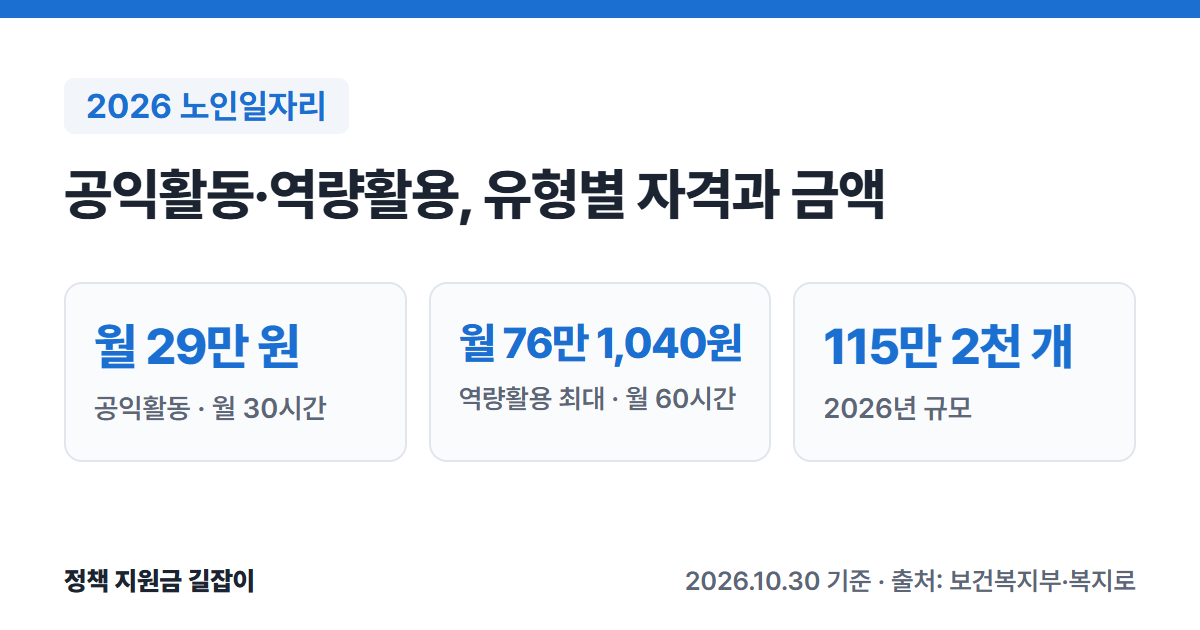
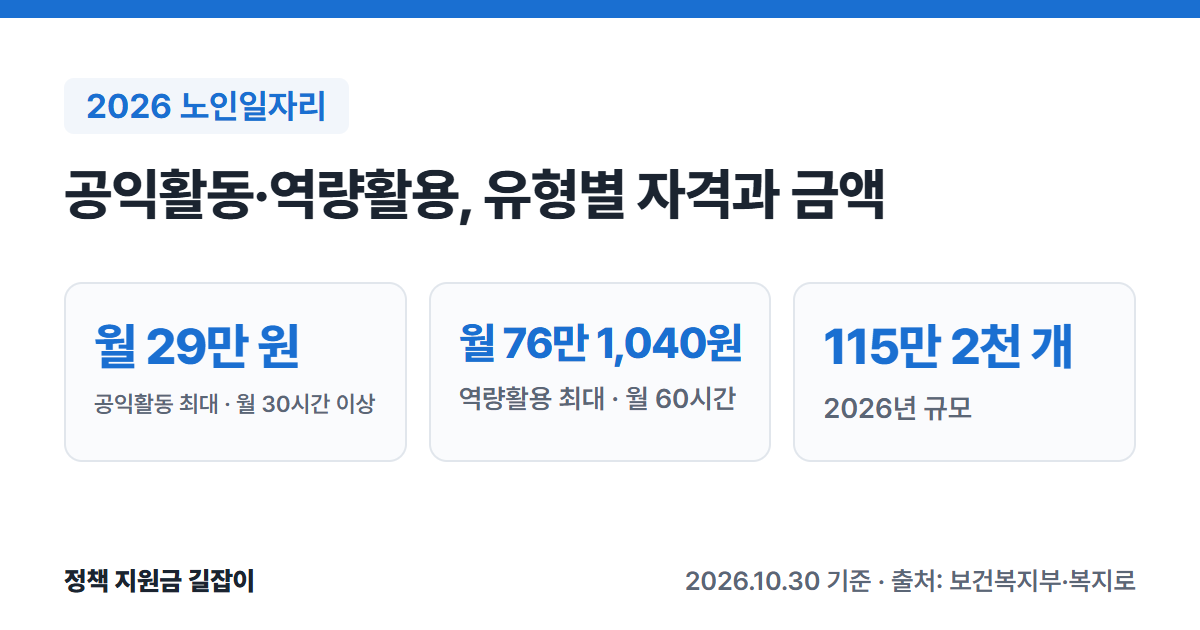
노인일자리 글·카드 공익활동 표현 보완(월 30시간 이상, 최대 29만 원), 쓰레드 원고 (독립 검토 반영)

Changed region(s): [[0.0617, 0.6032, 0.3083, 0.6635]]

diff --git a/_tools/card.html b/_tools/card.html
@@ -68,7 +68,7 @@ const cards = {
   "senior-jobs-2026": {
     label: "2026 노인일자리",
     title: "공익활동·역량활용, 유형별 자격과 금액",
-    stats: [["월 29만 원", "공익활동 · 월 30시간"], ["월 76만 1,040원", "역량활용 최대 · 월 60시간"], ["115만 2천 개", "2026년 규모"]],
+    stats: [["월 29만 원", "공익활동 최대 · 월 30시간 이상"], ["월 76만 1,040원", "역량활용 최대 · 월 60시간"], ["115만 2천 개", "2026년 규모"]],
     foot: "2026.10.30 기준 · 출처: 보건복지부·복지로"
   },
   "high-risk-pregnancy-medical-support-2026": {

diff --git a/_posts/2026-10-30-senior-jobs-2026.md b/_posts/2026-10-30-senior-jobs-2026.md
@@ -10,10 +10,10 @@ image: /assets/images/cards/senior-jobs-2026.png
 2026년에는 **115만 2천 개**를 제공하고, 공익활동은 **월 29만 원**, 역량활용은 **월 최대 76만 1,040원**을 받아요.
 보건복지부 「2026년 노인 일자리 및 사회활동 지원사업 운영안내」와 보도자료를 바탕으로 유형별 자격, 금액, 신청 방법을 정리했어요.
 
-![2026 노인일자리 요약: 공익활동 월 29만 원(월 30시간), 역량활용 월 최대 76만 1,040원(월 60시간, 주휴수당 포함), 2026년 115만 2천 개](/assets/images/cards/senior-jobs-2026.png){: .summary-card}
+![2026 노인일자리 요약: 공익활동 월 최대 29만 원(월 30시간 이상), 역량활용 월 최대 76만 1,040원(월 60시간, 주휴수당 포함), 2026년 115만 2천 개](/assets/images/cards/senior-jobs-2026.png){: .summary-card}
 
 > 💡 **핵심 요약**
-> - **노인공익활동사업**: 65세 이상 기초연금 수급자가 월 30시간 활동하고 **월 29만 원**을 받아요. (출처①)
+> - **노인공익활동사업**: 65세 이상 기초연금 수급자가 월 30시간 이상 활동하고 **월 최대 29만 원**을 받아요. (출처①)
 > - **노인역량활용사업**: 65세 이상(일부 유형 60세 이상)이 월 60시간 일하고 **월 최대 76만 1,040원**(주휴수당 포함)을 받아요. (출처①)
 > - 2026년 참여자는 **2025년 11월 28일~12월 26일**에 집중 모집했어요(출처②). 2027년 모집 공고는 10월 30일 현재 보건복지부 보도자료에서 확인되지 않아요.
 
